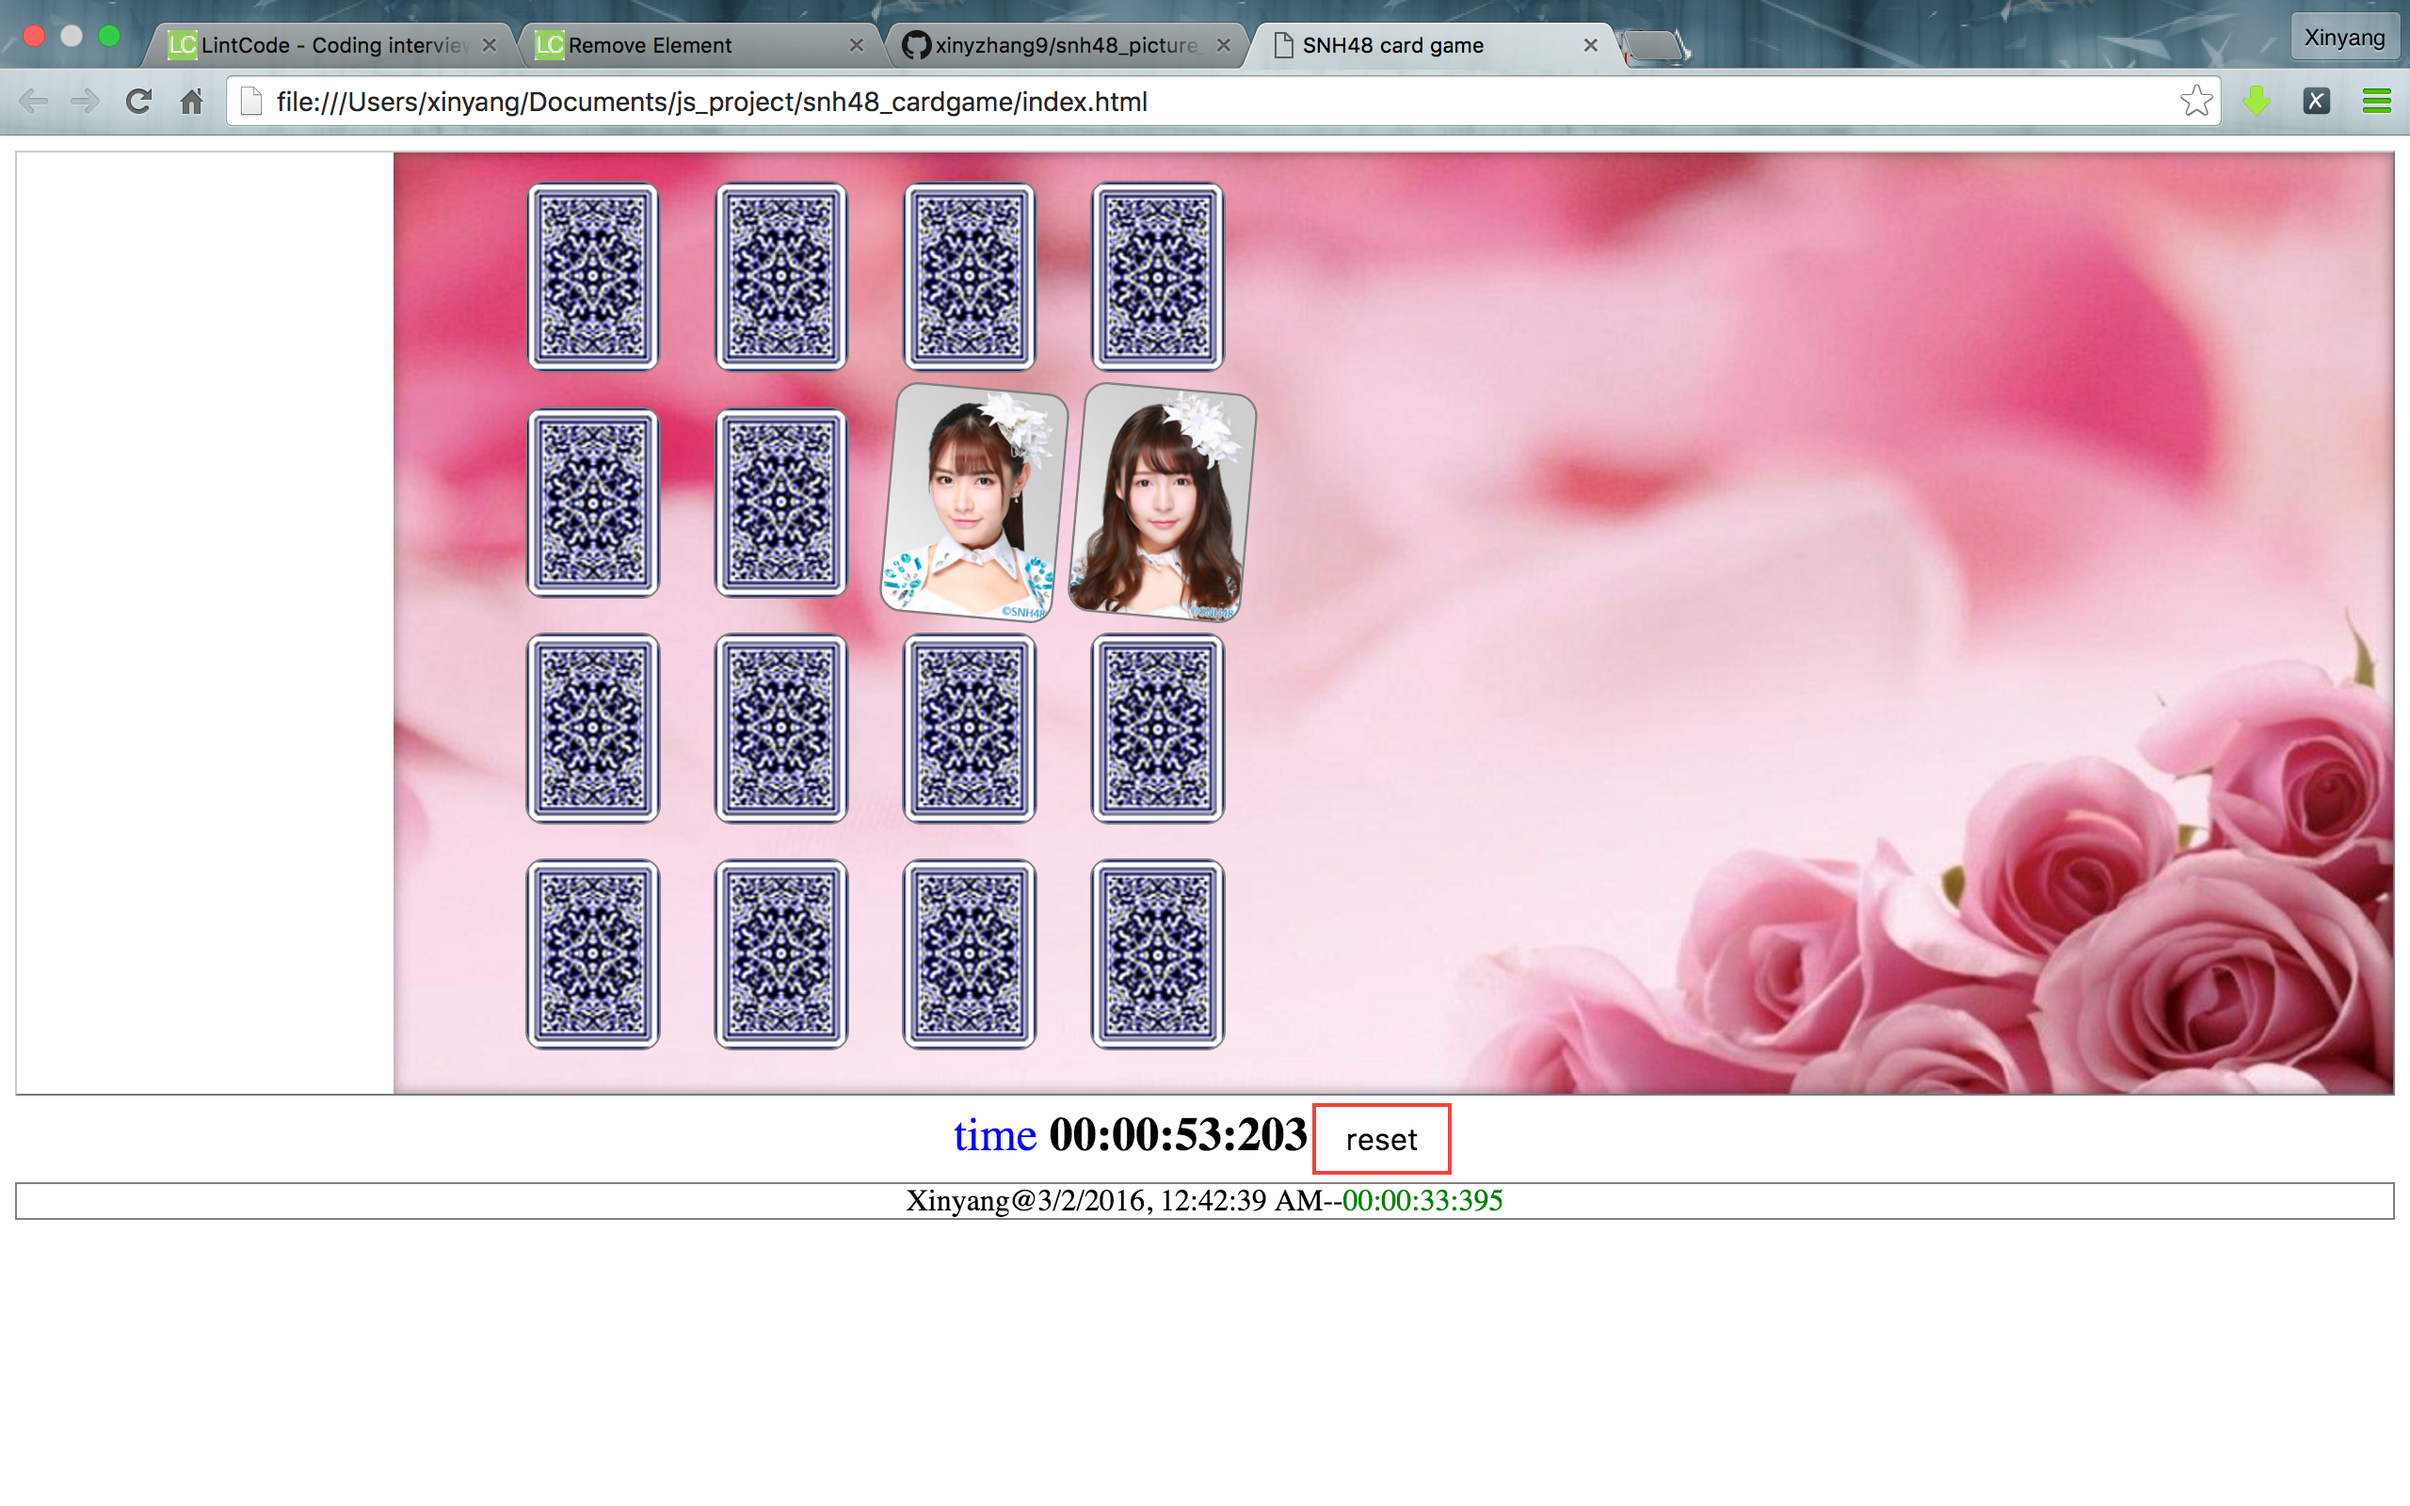
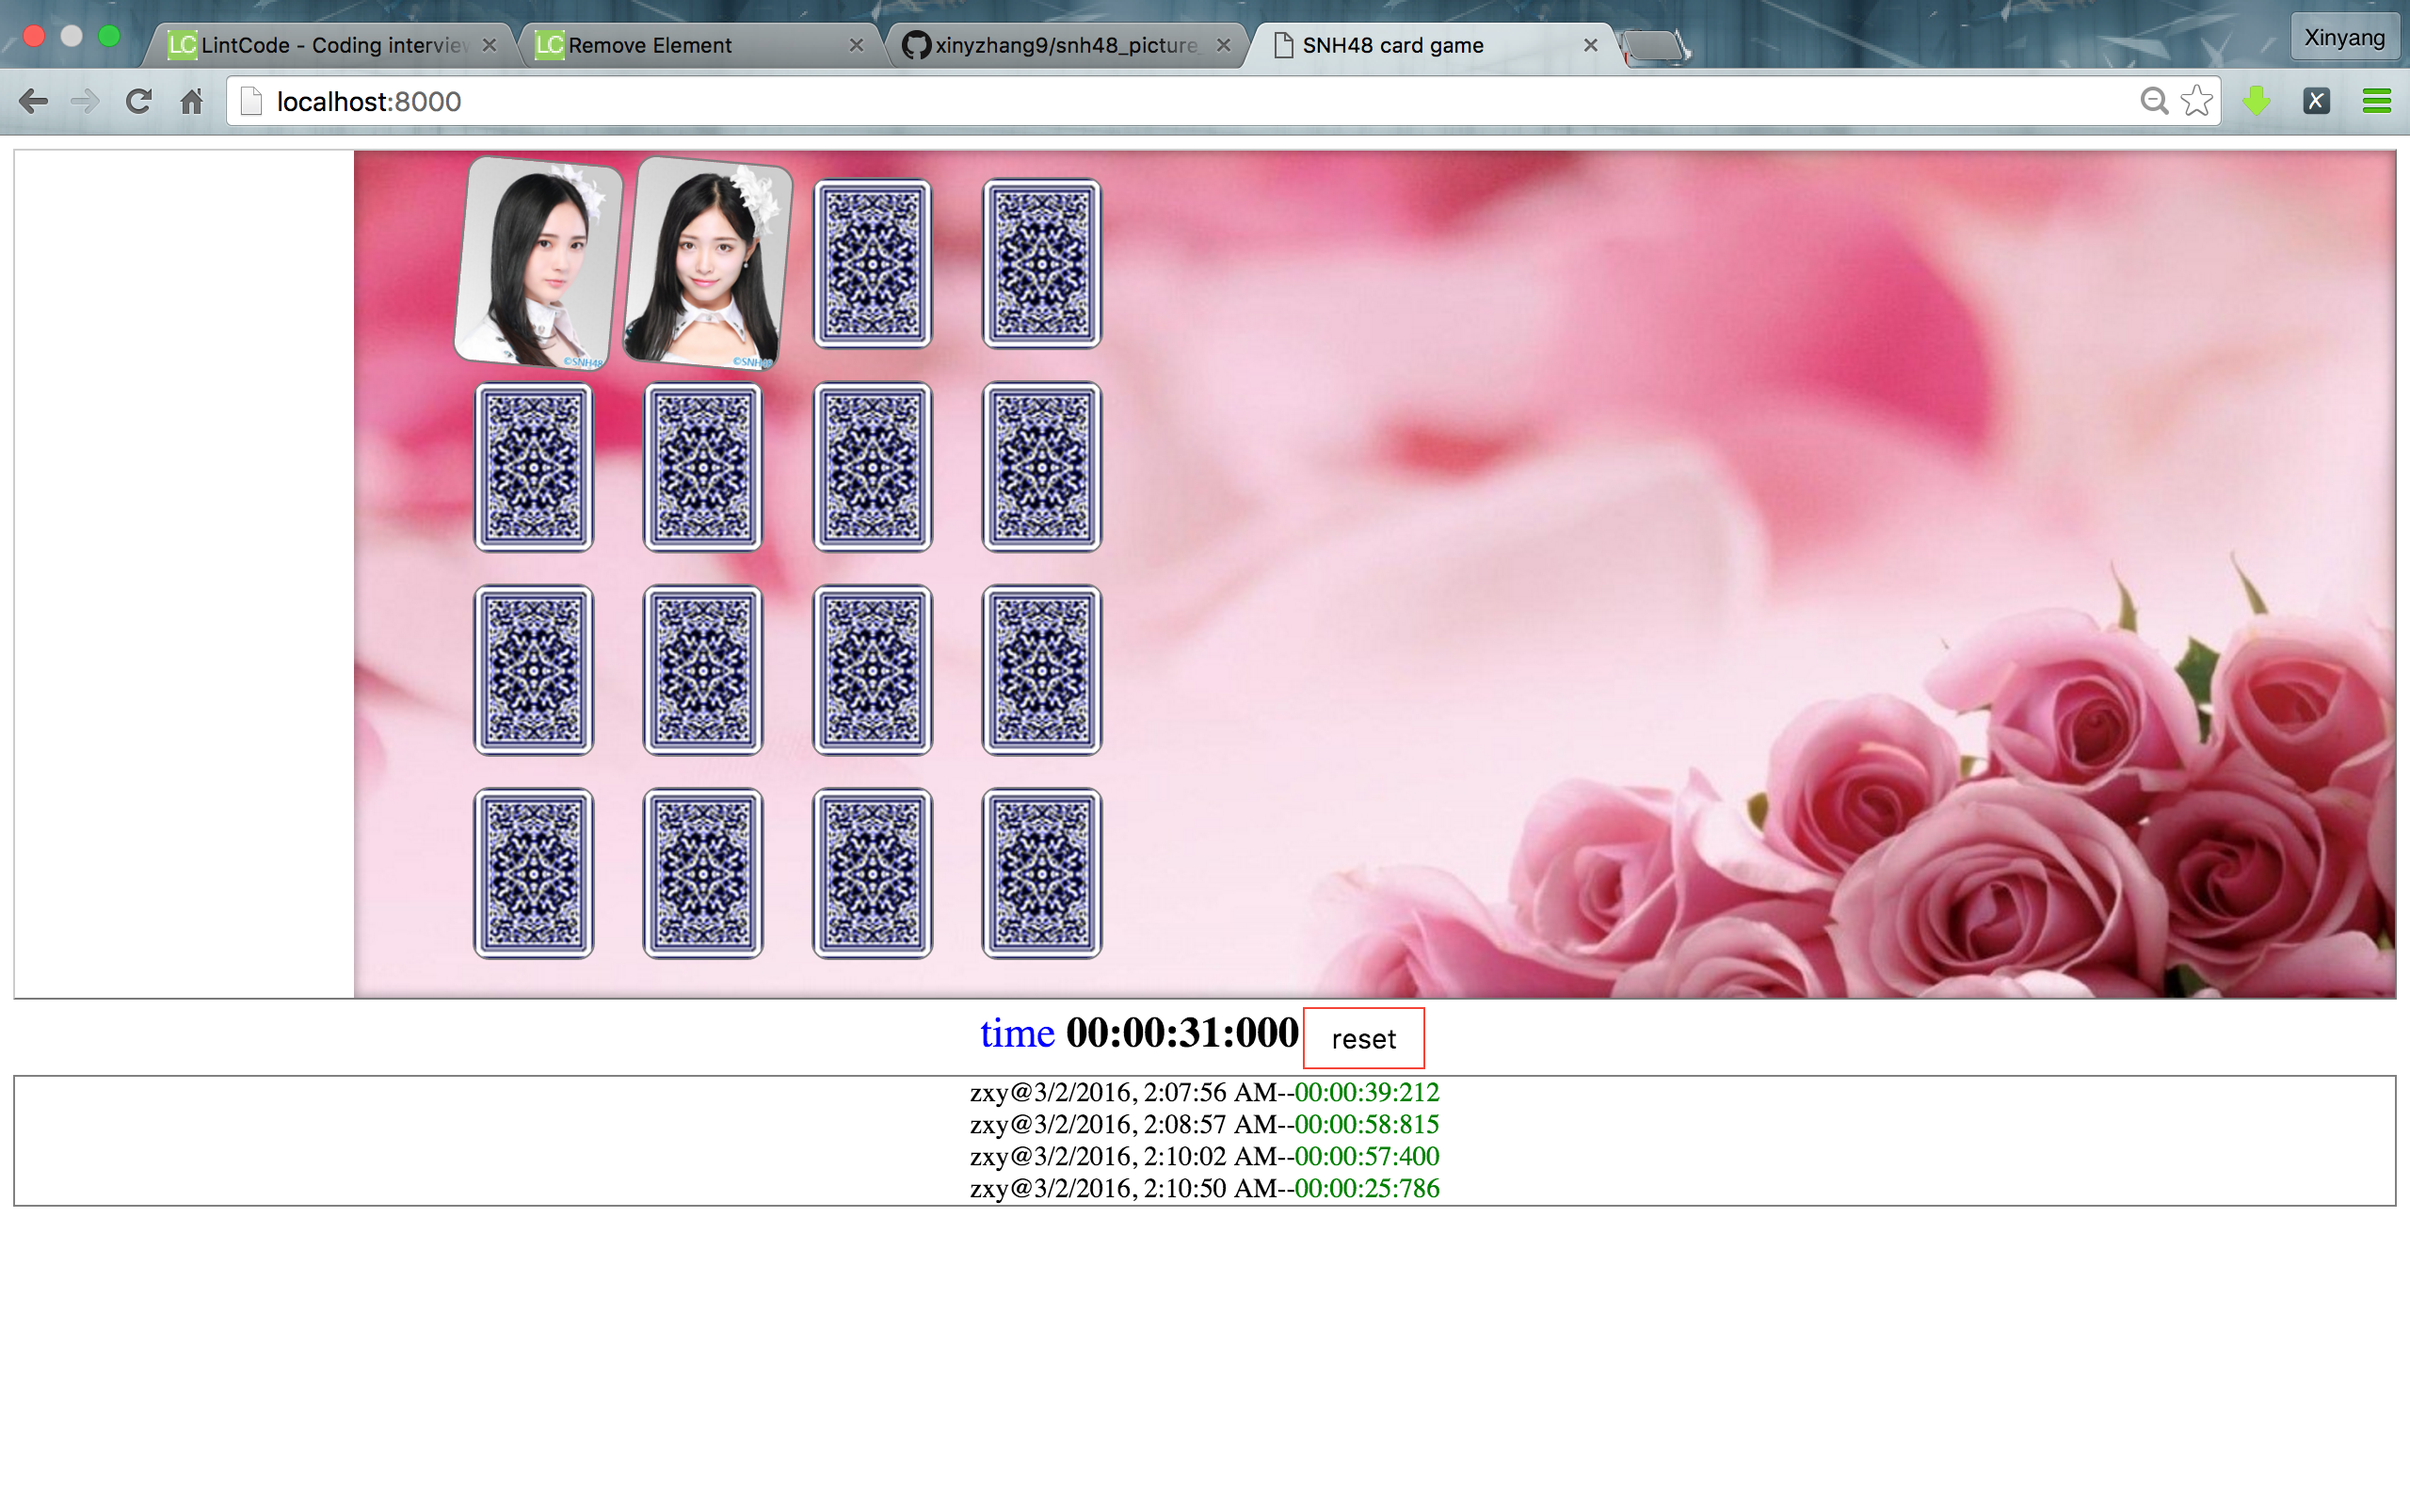
fix a timing bug

diff --git a/client/game.js b/client/game.js
@@ -139,7 +139,7 @@ var clsStopwatch = function() {
     // Stop or pause
     this.stop = function() {
         // If running, update elapsed time otherwise keep it
-        lapTime = startAt ? lapTime + now() - startAt : lapTime;
+        lapTime = startAt ? now() - startAt : lapTime;
         $result_time = lapTime;
         startAt = 0; // Paused
       };
